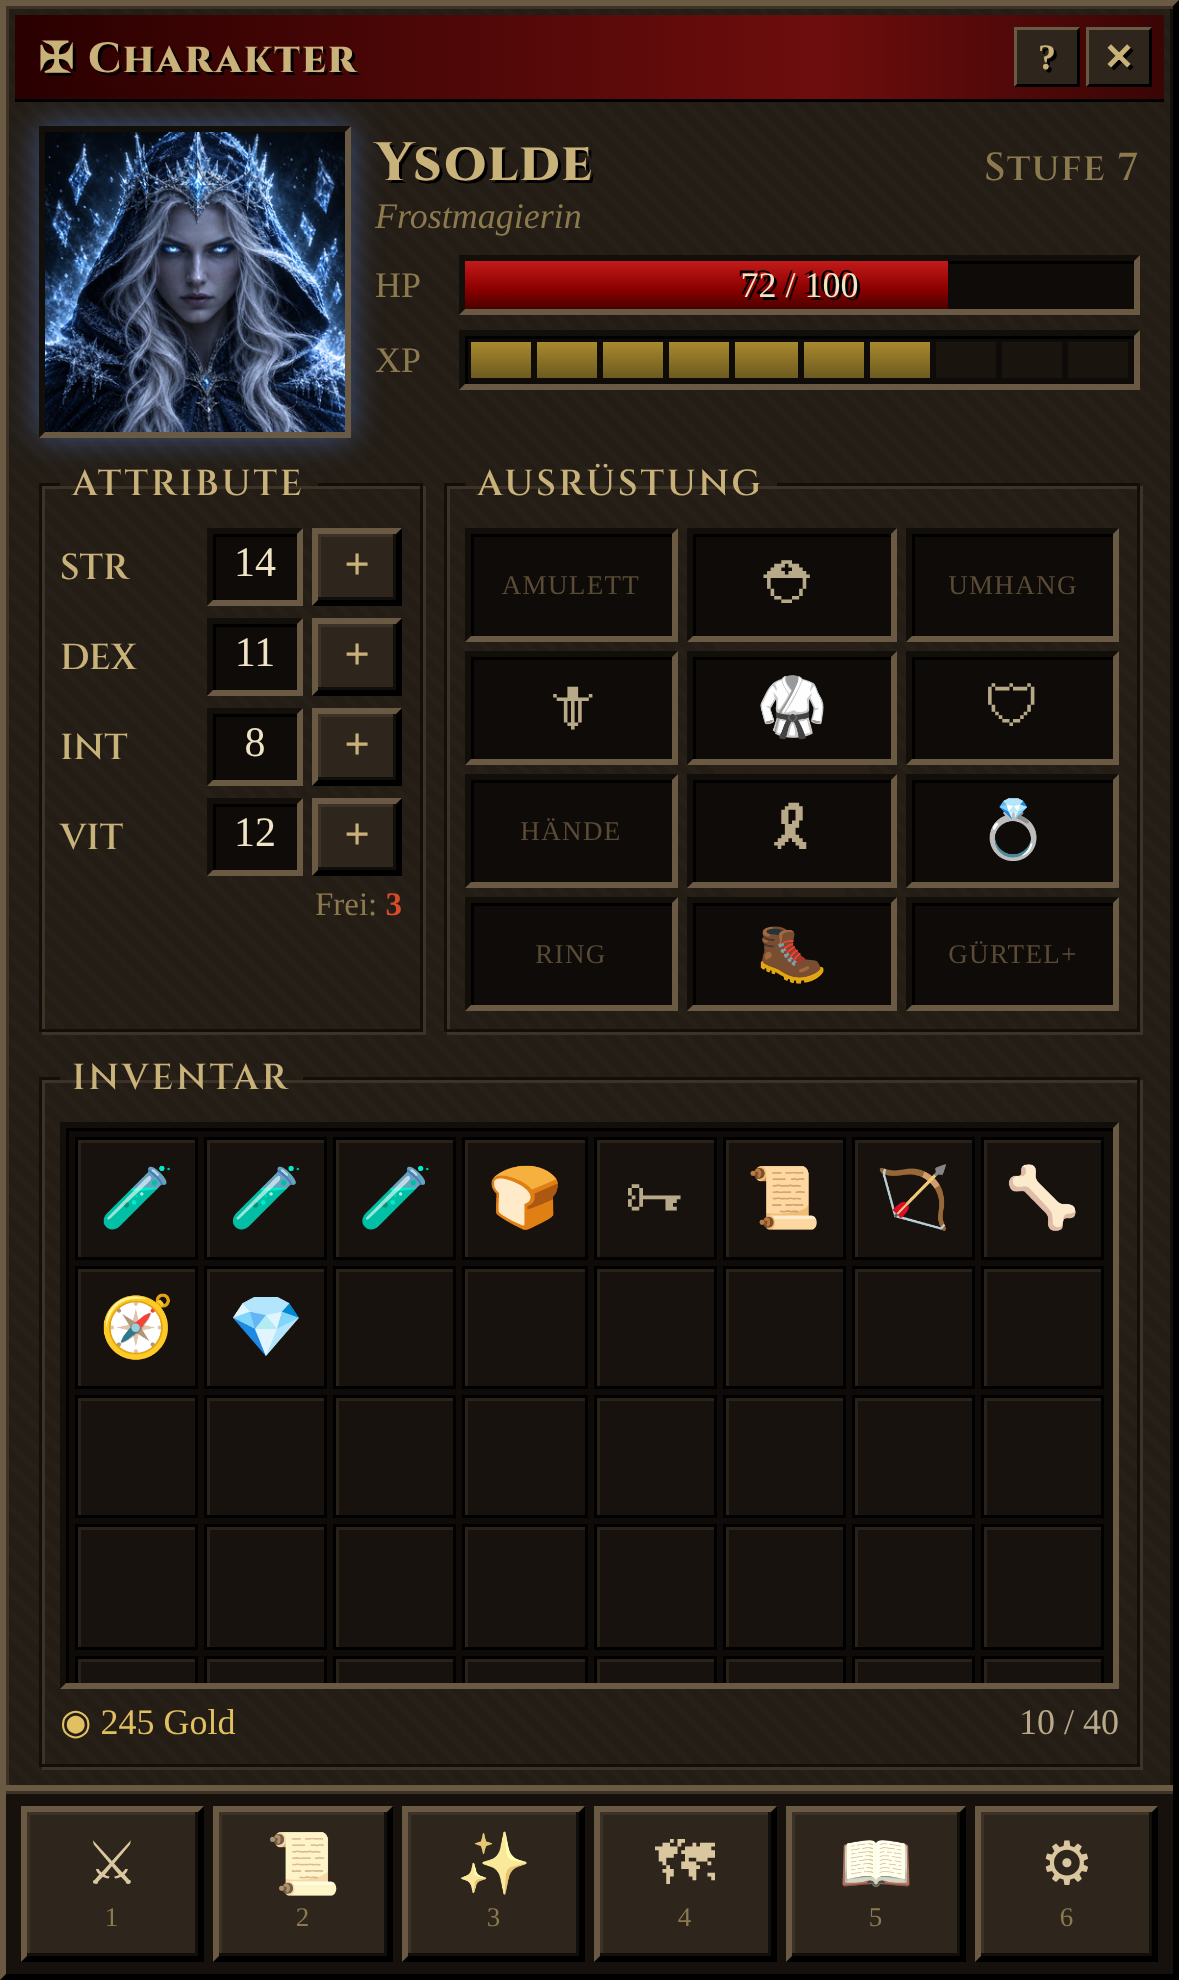
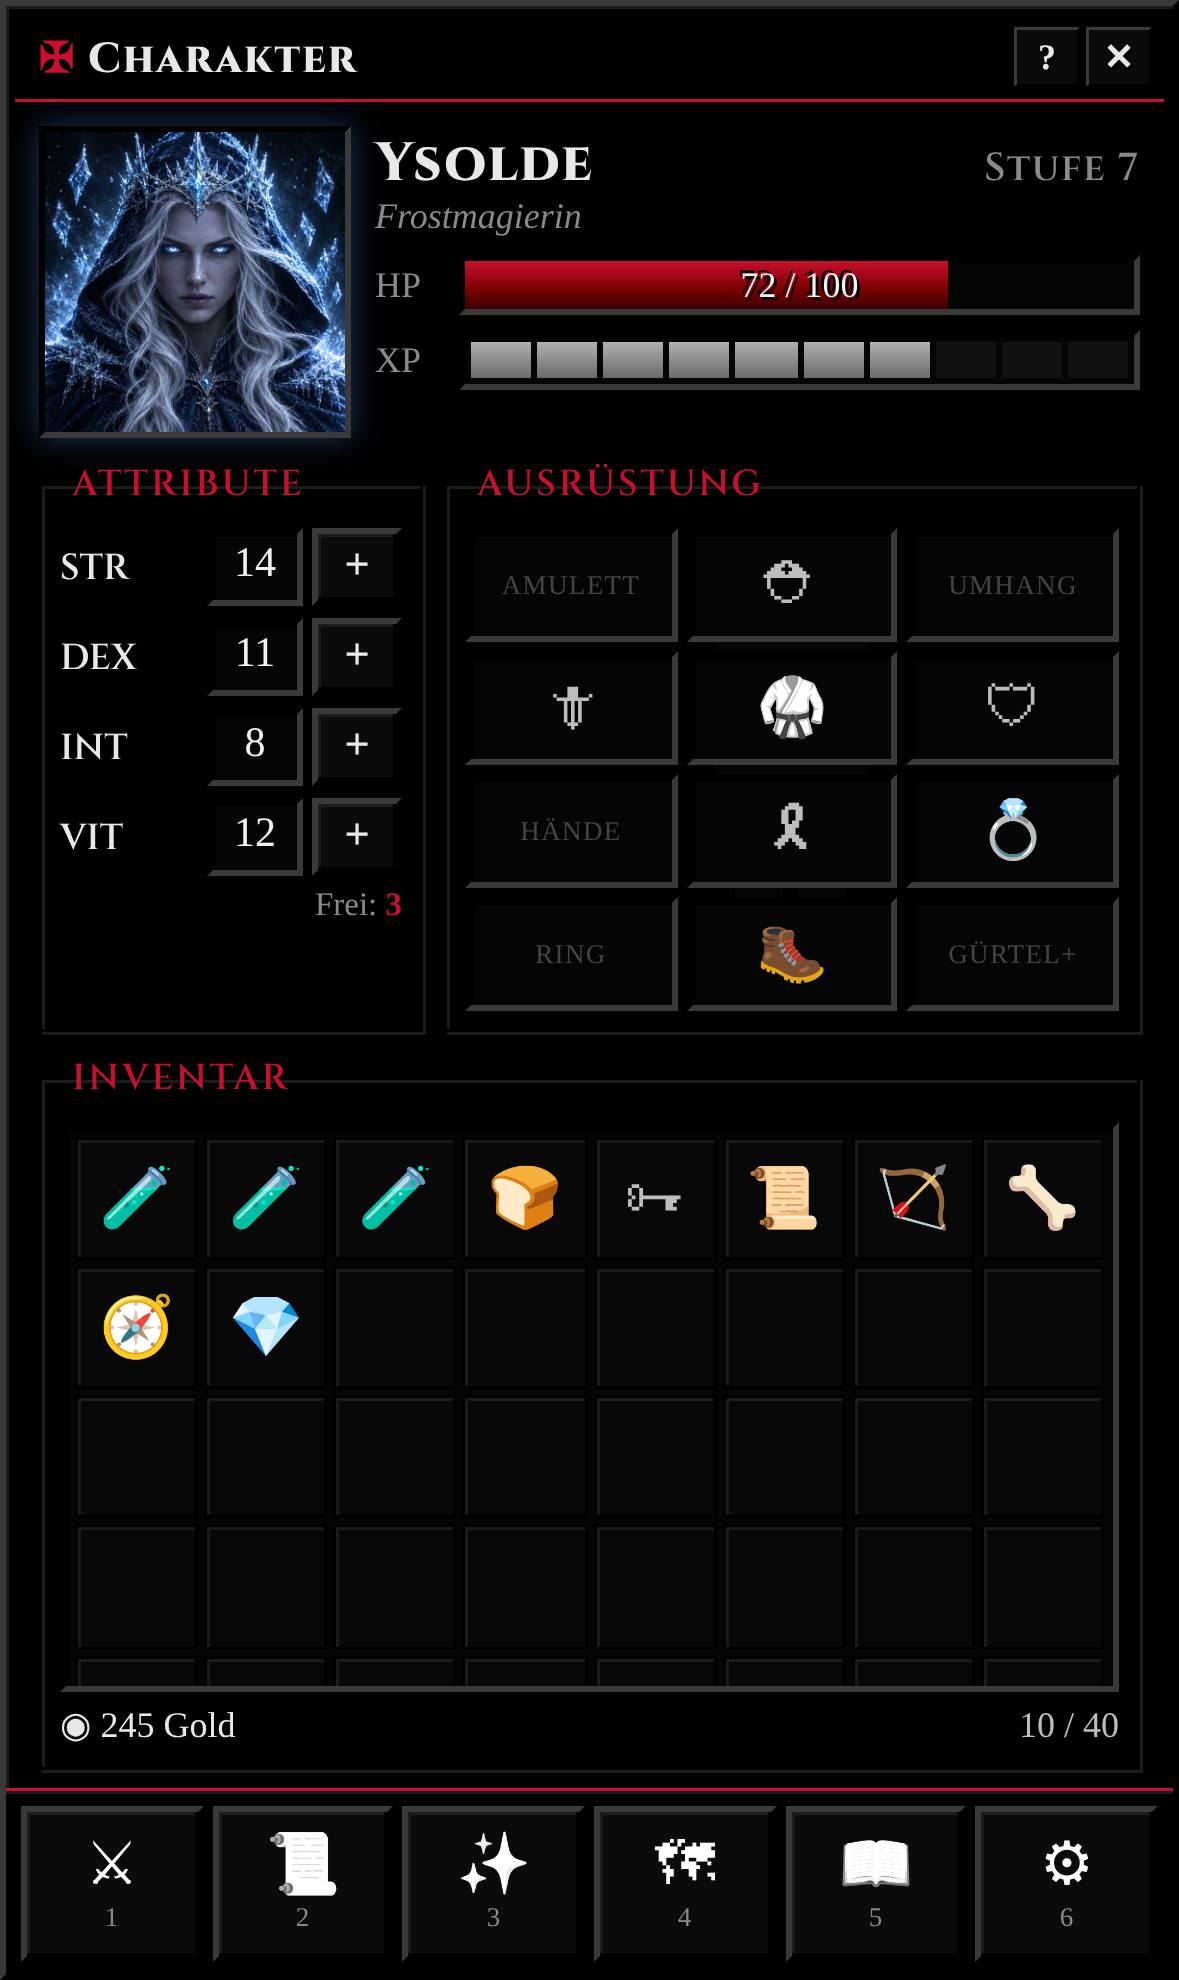
Switch character mockup to black UI with red accents
Claude-Session: https://claude.ai/code/session_01K7GT1jv7YTewLPa3NciMH2

diff --git a/mockups/character.html b/mockups/character.html
@@ -12,19 +12,20 @@
 <style>
   /* Win95-Aufbau, Diablo-1-Farben: Stein, Rost, Blut, mattes Gold */
   :root {
-    --bg: #050403;
-    --face: #241d16; --face2: #2e251c;
-    --hi: #6b5a43; --mid: #3d3226; --lo: #120e0a; --dk: #000;
-    --gold: #c9b27a; --gold-dim: #8c7a4f; --text: #b8a988;
-    --title: #2a0000; --title2: #6e0d0d;
-    --hp: #8a0000; --hp2: #c41a1a; --xp: #6d5a20; --xp2: #a8892e;
-    --well: #0e0b08;
-    --class: rgba(90,150,255,.45);
+    --bg: #000;
+    --face: #000; --face2: #0b0b0b;
+    --hi: #3a3a3a; --mid: #1c1c1c; --lo: #000; --dk: #000;
+    --gold: #e8e8e8; --gold-dim: #8a8a8a; --text: #bdbdbd;
+    --title: #000; --title2: #000;
+    --hp: #7a0000; --hp2: #c8102e; --xp: #6a6a6a; --xp2: #b0b0b0;
+    --well: #050505;
+    --red: #c8102e;
+    --class: rgba(90,150,255,.35);
   }
   * { box-sizing: border-box; -webkit-tap-highlight-color: transparent; }
   html, body { margin: 0; height: 100%; overscroll-behavior: none; }
   body {
-    background: radial-gradient(ellipse at 50% 30%, #1a0c06 0%, var(--bg) 70%);
+    background: #000;
     color: var(--text);
     font-family: Georgia, "Times New Roman", serif; font-size: 14px;
     -webkit-user-select: none; user-select: none; touch-action: manipulation;
@@ -37,17 +38,18 @@
     max-width: 480px; margin: 0 auto; padding: 3px;
     display: flex; flex-direction: column;
     background: var(--face);
-    background-image: repeating-linear-gradient(45deg, rgba(255,255,255,.012) 0 2px, transparent 2px 5px);
+    
     border: 2px solid; border-color: var(--hi) var(--dk) var(--dk) var(--hi);
     box-shadow: inset 1px 1px 0 var(--mid), inset -1px -1px 0 var(--lo);
   }
   .titlebar {
-    background: linear-gradient(90deg, var(--title), var(--title2) 70%, #3a0505);
+    background: #000;
     color: var(--gold); padding: 4px 4px 4px 8px; flex: none;
     display: flex; justify-content: space-between; align-items: center;
-    border-bottom: 1px solid #000; text-shadow: 1px 1px 0 #000;
+    border-bottom: 1px solid var(--red); text-shadow: 1px 1px 0 #000;
   }
   .titlebar .gothic { font-weight: 800; font-size: 14px; }
+  .titlebar .gothic::first-letter { color: var(--red); }
   .tb-btns { display: flex; gap: 2px; }
   .tb-btns span {
     width: 22px; height: 20px; background: var(--face2); color: var(--gold);
@@ -64,11 +66,11 @@
     margin: 0; padding: 7px 6px 6px; min-width: 0;
     border: 1px solid var(--lo); box-shadow: 1px 1px 0 var(--mid), inset 1px 1px 0 var(--mid);
   }
-  legend { padding: 0 4px; color: var(--gold); font-family: "Cinzel", Georgia, serif; font-weight: 600; font-size: 12px; letter-spacing: .08em; text-transform: uppercase; }
+  legend { padding: 0 4px; color: var(--red); font-family: "Cinzel", Georgia, serif; font-weight: 600; font-size: 12px; letter-spacing: .08em; text-transform: uppercase; }
 
   /* Kopf */
   .head { flex: none; display: grid; grid-template-columns: 104px 1fr; gap: 8px; }
-  .portrait { width: 104px; height: 104px; background: #0a0705; }
+  .portrait { width: 104px; height: 104px; background: #000; }
   .portrait img { width: 100%; height: 100%; display: block; object-fit: cover; }
   .portrait { box-shadow: inset 1px 1px 0 #000, 0 0 10px var(--class); }
   .nameline { display: flex; justify-content: space-between; align-items: baseline; }
@@ -79,41 +81,41 @@
   .barrow > span { font-size: 12px; color: var(--gold-dim); }
   .bar { height: 20px; background: var(--well); position: relative; }
   .fill { height: 100%; }
-  .bar b { position: absolute; inset: 0; display: grid; place-items: center; font-weight: normal; font-size: 12px; color: #f0e4c4; text-shadow: 1px 1px 0 #000, -1px -1px 0 #000; }
-  .hp .fill { width: 72%; background: linear-gradient(180deg, var(--hp2), var(--hp) 60%, #4a0000); }
+  .bar b { position: absolute; inset: 0; display: grid; place-items: center; font-weight: normal; font-size: 12px; color: #f2f2f2; text-shadow: 1px 1px 0 #000, -1px -1px 0 #000; }
+  .hp .fill { width: 72%; background: linear-gradient(180deg, var(--hp2), var(--hp) 60%, #3a0000); }
   .xp { padding: 2px; display: flex; gap: 2px; }
   .xp i { flex: 1; background: linear-gradient(180deg, var(--xp2), var(--xp)); }
-  .xp i.off { background: #1a140e; }
+  .xp i.off { background: #111; }
 
   /* Mitte: Attribute links, Ausrüstung rechts */
   .mid { flex: none; display: grid; grid-template-columns: 128px 1fr; gap: 7px; }
   .stat { display: grid; grid-template-columns: 1fr 32px 30px; align-items: center; gap: 3px; margin-bottom: 4px; }
   .stat .k { font-family: "Cinzel", Georgia, serif; font-weight: 600; font-size: 12px; color: var(--gold); }
-  .stat .v { background: var(--well); text-align: center; padding: 3px 0; font-size: 14px; color: #f0e4c4; }
+  .stat .v { background: var(--well); text-align: center; padding: 3px 0; font-size: 14px; color: #f2f2f2; }
   .statfoot { font-size: 11px; color: var(--gold-dim); text-align: right; margin-top: 2px; }
-  .statfoot b { color: #d84a2a; }
+  .statfoot b { color: var(--red); }
 
   .equip { display: grid; grid-template-columns: repeat(3, 1fr); grid-template-rows: repeat(4, 38px); gap: 3px; position: relative; }
   .equip::before { /* Silhouette im Hintergrund */
     content: ""; position: absolute; inset: 0; margin: auto; width: 34%; pointer-events: none;
-    background: radial-gradient(circle at 50% 12%, #2a2118 0 12%, transparent 13%),
-                linear-gradient(#2a2118, #2a2118) 50% 32% / 70% 34% no-repeat,
-                linear-gradient(#2a2118, #2a2118) 32% 88% / 22% 32% no-repeat,
-                linear-gradient(#2a2118, #2a2118) 68% 88% / 22% 32% no-repeat;
-    opacity: .7;
+    background: radial-gradient(circle at 50% 12%, #151515 0 12%, transparent 13%),
+                linear-gradient(#151515, #151515) 50% 32% / 70% 34% no-repeat,
+                linear-gradient(#151515, #151515) 32% 88% / 22% 32% no-repeat,
+                linear-gradient(#151515, #151515) 68% 88% / 22% 32% no-repeat;
+    opacity: .25;
   }
   .eq { background: var(--well); display: grid; place-items: center; font-size: 19px; position: relative; z-index: 1; }
-  .eq.empty::after { content: attr(data-l); font-size: 9px; color: #5a4b37; font-family: Georgia, serif; text-transform: uppercase; letter-spacing: .05em; }
-  .eq.sel, .slot.sel { outline: 1px solid var(--gold); outline-offset: -3px; }
+  .eq.empty::after { content: attr(data-l); font-size: 9px; color: #444; font-family: Georgia, serif; text-transform: uppercase; letter-spacing: .05em; }
+  .eq.sel, .slot.sel { outline: 1px solid var(--red); outline-offset: -3px; }
   .c1 { grid-column: 1; } .c2 { grid-column: 2; } .c3 { grid-column: 3; }
 
   /* Inventar */
   .invbox { flex: 1; min-height: 90px; display: flex; flex-direction: column; }
   .invscroll { flex: 1; min-height: 0; overflow-y: auto; background: var(--well); padding: 3px; -webkit-overflow-scrolling: touch; }
   .inv { display: grid; grid-template-columns: repeat(8, 1fr); gap: 2px; }
-  .slot { aspect-ratio: 1; background: #17120d; display: grid; place-items: center; font-size: 20px; border: 1px solid #000; box-shadow: inset 1px 1px 0 #2a2118; }
+  .slot { aspect-ratio: 1; background: #080808; display: grid; place-items: center; font-size: 20px; border: 1px solid #000; box-shadow: inset 1px 1px 0 #1a1a1a; }
   .invinfo { display: flex; justify-content: space-between; margin-top: 4px; font-size: 12px; }
-  .gold { color: #e0c060; }
+  .gold { color: var(--gold); }
 
   /* Buttonleiste: 6 nebeneinander, unten am Rand */
   .btn {
@@ -122,16 +124,16 @@
     border: 2px solid; border-color: var(--hi) var(--dk) var(--dk) var(--hi);
     box-shadow: inset -1px -1px 0 var(--lo), inset 1px 1px 0 var(--mid);
   }
-  .btn:active { border-color: var(--dk) var(--hi) var(--hi) var(--dk); box-shadow: inset 1px 1px 0 var(--lo); background: #1a140f; }
+  .btn:active { border-color: var(--dk) var(--hi) var(--hi) var(--dk); box-shadow: inset 1px 1px 0 var(--lo); background: #1a0003; color: var(--red); }
   .plus { width: 30px; height: 26px; font-weight: bold; font-size: 15px; }
   .plus:disabled { color: #4a3d2c; }
   .taskbar {
     flex: none; display: grid; grid-template-columns: repeat(6, 1fr); gap: 3px;
-    padding: 5px 5px 4px; margin: 6px -3px -3px; background: #16110c;
-    border-top: 2px solid var(--hi); box-shadow: inset 0 1px 0 var(--mid);
+    padding: 5px 5px 4px; margin: 6px -3px -3px; background: #000;
+    border-top: 1px solid var(--red); box-shadow: inset 0 1px 0 var(--mid);
   }
   .taskbar .btn { height: 52px; display: flex; flex-direction: column; align-items: center; justify-content: center; gap: 2px; }
-  .taskbar .ico { font-size: 20px; line-height: 1; filter: sepia(.6) saturate(.8); }
+  .taskbar .ico { font-size: 20px; line-height: 1; filter: grayscale(1) brightness(1.3); }
   .taskbar .lbl { font-size: 9px; letter-spacing: .03em; color: var(--gold-dim); }
 </style>
 </head>
